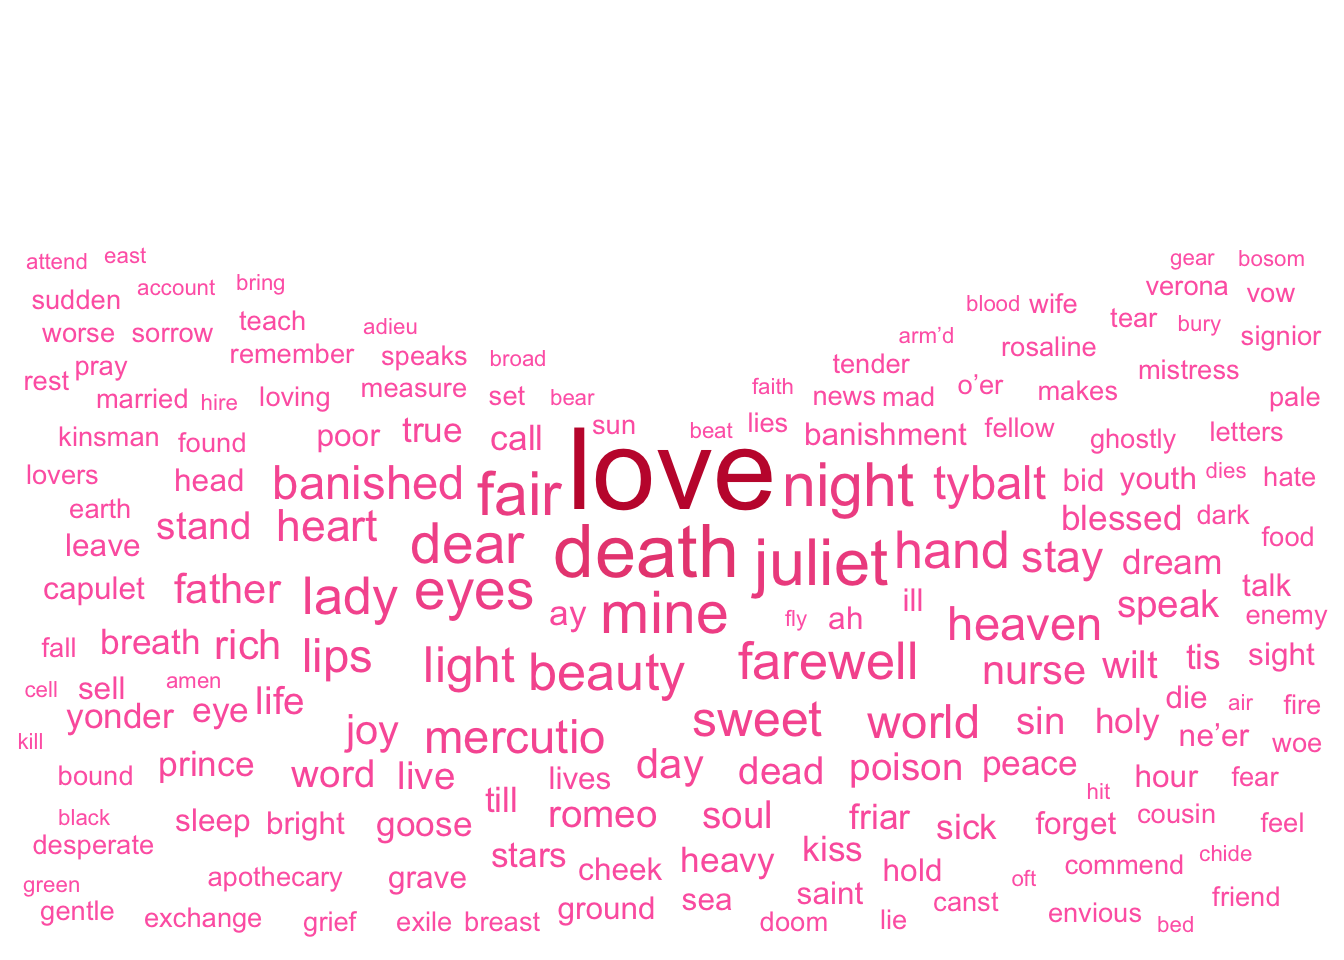
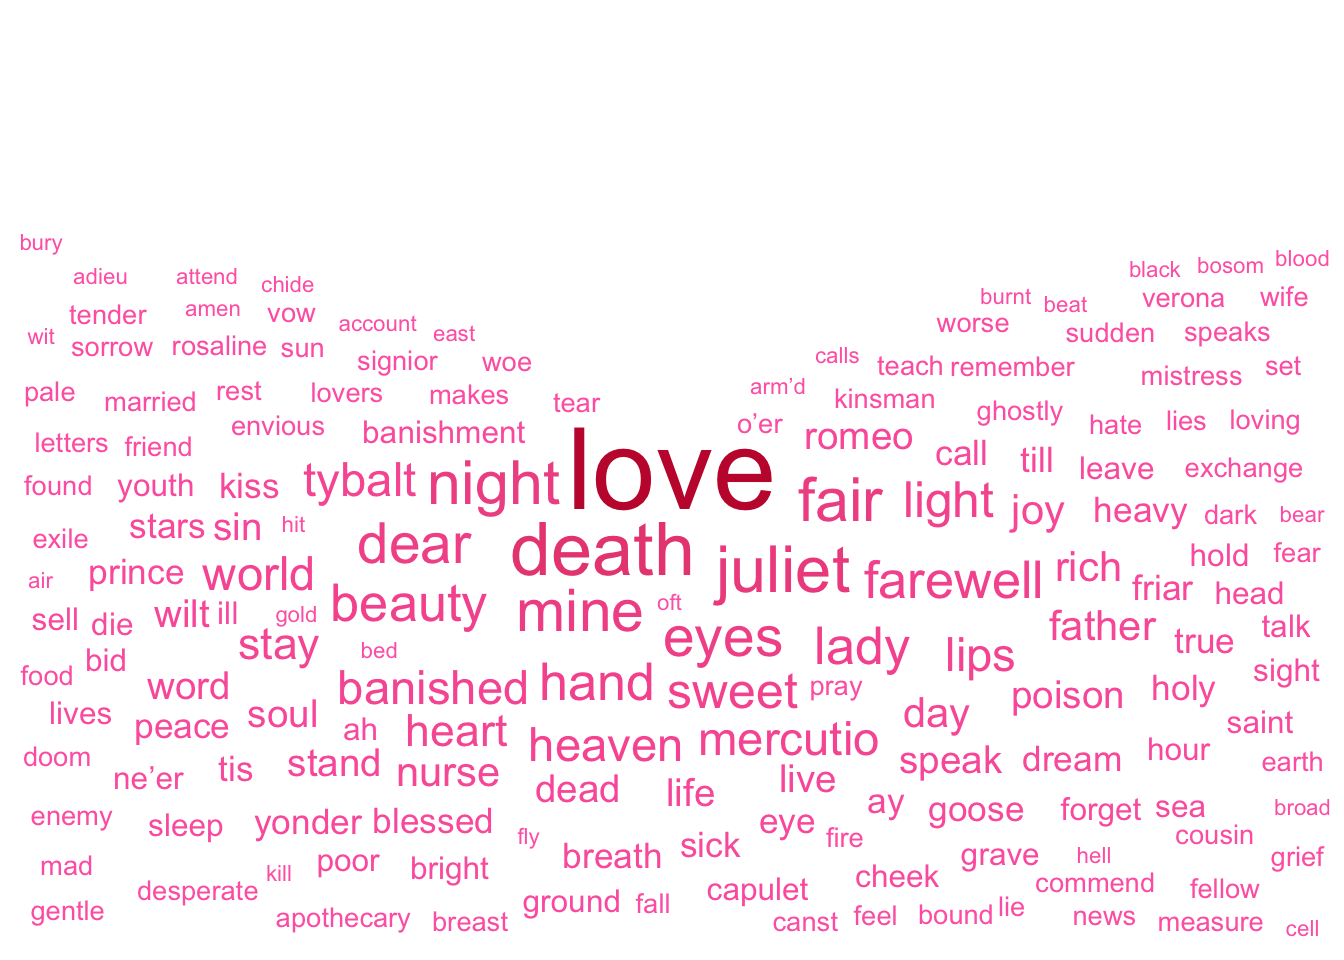
edited shakespeare page

Changed region(s): [[0.0, 0.25, 1.0, 0.9688]]

diff --git a/docs/shakespeare.html b/docs/shakespeare.html
@@ -143,10 +143,10 @@ pre > code.sourceCode > span > a:first-child::before { text-decoration: underlin
     </ul>
   </li>
   <li class="nav-item dropdown ">
-    <a class="nav-link dropdown-toggle" href="#" id="nav-menu-data-viz" role="button" data-bs-toggle="dropdown" aria-expanded="false">
- <span class="menu-text">Data Viz</span>
+    <a class="nav-link dropdown-toggle" href="#" id="nav-menu-data-visualization" role="button" data-bs-toggle="dropdown" aria-expanded="false">
+ <span class="menu-text">Data Visualization</span>
     </a>
-    <ul class="dropdown-menu" aria-labelledby="nav-menu-data-viz">    
+    <ul class="dropdown-menu" aria-labelledby="nav-menu-data-visualization">    
         <li>
     <a class="dropdown-item" href="./olympics.html">
  <span class="dropdown-text">Olympics</span></a>
@@ -161,18 +161,25 @@ pre > code.sourceCode > span > a:first-child::before { text-decoration: underlin
   </li>  
     </ul>
   </li>
-  <li class="nav-item">
-    <a class="nav-link" href="./miniproject2.html"> 
-<span class="menu-text">Mini-Project 2</span></a>
+  <li class="nav-item dropdown ">
+    <a class="nav-link dropdown-toggle" href="#" id="nav-menu-data-science-projects" role="button" data-bs-toggle="dropdown" aria-expanded="false">
+ <span class="menu-text">Data Science Projects</span>
+    </a>
+    <ul class="dropdown-menu" aria-labelledby="nav-menu-data-science-projects">    
+        <li>
+    <a class="dropdown-item" href="./project4.html">
+ <span class="dropdown-text">SQL</span></a>
   </li>  
-  <li class="nav-item">
-    <a class="nav-link" href="./miniproject3.html"> 
-<span class="menu-text">Mini-Project 3</span></a>
+        <li>
+    <a class="dropdown-item" href="./miniproject3.html">
+ <span class="dropdown-text">Permutation</span></a>
   </li>  
-  <li class="nav-item">
-    <a class="nav-link" href="./project4.html"> 
-<span class="menu-text">Project 4</span></a>
+        <li>
+    <a class="dropdown-item" href="./miniproject2.html">
+ <span class="dropdown-text">Text Analysis</span></a>
   </li>  
+    </ul>
+  </li>
 </ul>
           </div> <!-- /navcollapse -->
           <div class="quarto-navbar-tools">
@@ -233,7 +240,7 @@ pre > code.sourceCode > span > a:first-child::before { text-decoration: underlin
 </header>
 
 
-<p>Data was accessed from <a href="https://github.com/rfordatascience/tidytuesday/tree/master/data/2024/2024-09-17" class="uri">https://github.com/rfordatascience/tidytuesday/tree/master/data/2024/2024-09-17</a> . The dataset is from <a href="#0">shakespeare.mit.edu</a> (via <a href="#0">github.com/nrennie/shakespeare</a>). Some of the code below is taken from Deepali Kank on GitHub, <a href="https://github.com/deepdk/TidyTuesday2024/tree/main/2024/week_38" class="uri">https://github.com/deepdk/TidyTuesday2024/tree/main/2024/week_38</a> .</p>
+<p>Data was accessed from the TidyTuesday GitHub repositroy at <a href="https://github.com/rfordatascience/tidytuesday/tree/master/data/2024/2024-09-17" class="uri">https://github.com/rfordatascience/tidytuesday/tree/master/data/2024/2024-09-17</a> . The dataset is from <a href="#0">shakespeare.mit.edu</a> (via <a href="#0">github.com/nrennie/shakespeare</a>), which contains all of William Shakespeare’s plays and poems. Some of the code below is taken from Deepali Kank on GitHub, <a href="https://github.com/deepdk/TidyTuesday2024/tree/main/2024/week_38" class="uri">https://github.com/deepdk/TidyTuesday2024/tree/main/2024/week_38</a> .</p>
 <div class="cell">
 <div class="sourceCode cell-code" id="cb1"><pre class="sourceCode r code-with-copy"><code class="sourceCode r"><span id="cb1-1"><a href="#cb1-1" aria-hidden="true" tabindex="-1"></a><span class="fu">library</span>(tidyverse)</span>
 <span id="cb1-2"><a href="#cb1-2" aria-hidden="true" tabindex="-1"></a>hamlet <span class="ot">&lt;-</span> readr<span class="sc">::</span><span class="fu">read_csv</span>(<span class="st">'https://raw.githubusercontent.com/rfordatascience/tidytuesday/master/data/2024/2024-09-17/hamlet.csv'</span>)</span>
@@ -242,16 +249,17 @@ pre > code.sourceCode > span > a:first-child::before { text-decoration: underlin
 </div>
 <div class="cell">
 <div class="sourceCode cell-code" id="cb2"><pre class="sourceCode r code-with-copy"><code class="sourceCode r"><span id="cb2-1"><a href="#cb2-1" aria-hidden="true" tabindex="-1"></a><span class="fu">library</span>(scales)</span>
-<span id="cb2-2"><a href="#cb2-2" aria-hidden="true" tabindex="-1"></a><span class="fu">library</span>(tidytext)</span>
-<span id="cb2-3"><a href="#cb2-3" aria-hidden="true" tabindex="-1"></a><span class="fu">library</span>(devtools)</span>
-<span id="cb2-4"><a href="#cb2-4" aria-hidden="true" tabindex="-1"></a><span class="fu">library</span>(ggwordcloud)</span>
-<span id="cb2-5"><a href="#cb2-5" aria-hidden="true" tabindex="-1"></a><span class="fu">library</span>(png)</span>
-<span id="cb2-6"><a href="#cb2-6" aria-hidden="true" tabindex="-1"></a><span class="fu">library</span>(svglite)</span></code><button title="Copy to Clipboard" class="code-copy-button"><i class="bi"></i></button></pre></div>
+<span id="cb2-2"><a href="#cb2-2" aria-hidden="true" tabindex="-1"></a><span class="fu">library</span>(tidyverse)</span>
+<span id="cb2-3"><a href="#cb2-3" aria-hidden="true" tabindex="-1"></a><span class="fu">library</span>(tidytext)</span>
+<span id="cb2-4"><a href="#cb2-4" aria-hidden="true" tabindex="-1"></a><span class="fu">library</span>(devtools)</span>
+<span id="cb2-5"><a href="#cb2-5" aria-hidden="true" tabindex="-1"></a><span class="fu">library</span>(ggwordcloud)</span>
+<span id="cb2-6"><a href="#cb2-6" aria-hidden="true" tabindex="-1"></a><span class="fu">library</span>(png)</span>
+<span id="cb2-7"><a href="#cb2-7" aria-hidden="true" tabindex="-1"></a><span class="fu">library</span>(svglite)</span></code><button title="Copy to Clipboard" class="code-copy-button"><i class="bi"></i></button></pre></div>
 </div>
 <section id="romeo-juliet" class="level2">
 <h2 class="anchored" data-anchor-id="romeo-juliet">Romeo &amp; Juliet</h2>
 <div class="cell">
-<div class="sourceCode cell-code" id="cb3"><pre class="sourceCode r code-with-copy"><code class="sourceCode r"><span id="cb3-1"><a href="#cb3-1" aria-hidden="true" tabindex="-1"></a>romeo_juliet<span class="ot">&lt;-</span>romeo_juliet<span class="sc">%&gt;%</span></span>
+<div class="sourceCode cell-code" id="cb3"><pre class="sourceCode r code-with-copy"><code class="sourceCode r"><span id="cb3-1"><a href="#cb3-1" aria-hidden="true" tabindex="-1"></a>romeo_juliet<span class="ot">&lt;-</span>romeo_juliet <span class="sc">|&gt;</span></span>
 <span id="cb3-2"><a href="#cb3-2" aria-hidden="true" tabindex="-1"></a>  <span class="fu">filter</span>(character <span class="sc">%in%</span> <span class="fu">c</span>(<span class="st">"Romeo"</span>, <span class="st">"Juliet"</span>))</span></code><button title="Copy to Clipboard" class="code-copy-button"><i class="bi"></i></button></pre></div>
 </div>
 <p>We need to remove stop words:</p>
@@ -259,25 +267,25 @@ pre > code.sourceCode > span > a:first-child::before { text-decoration: underlin
 <div class="sourceCode cell-code" id="cb4"><pre class="sourceCode r code-with-copy"><code class="sourceCode r"><span id="cb4-1"><a href="#cb4-1" aria-hidden="true" tabindex="-1"></a>custom_stop_words <span class="ot">&lt;-</span> <span class="fu">c</span>(<span class="st">"thou"</span>, <span class="st">"thy"</span>, <span class="st">"thee"</span>, <span class="st">"thine"</span>, <span class="st">"art"</span>, <span class="st">"hast"</span>, <span class="st">"doth"</span>, <span class="st">"dost"</span>, <span class="st">"ere"</span>, <span class="st">"o"</span>,<span class="st">"hath"</span>)</span></code><button title="Copy to Clipboard" class="code-copy-button"><i class="bi"></i></button></pre></div>
 </div>
 <div class="cell">
-<div class="sourceCode cell-code" id="cb5"><pre class="sourceCode r code-with-copy"><code class="sourceCode r"><span id="cb5-1"><a href="#cb5-1" aria-hidden="true" tabindex="-1"></a>temp1 <span class="ot">&lt;-</span> romeo_juliet <span class="sc">%&gt;%</span></span>
-<span id="cb5-2"><a href="#cb5-2" aria-hidden="true" tabindex="-1"></a>  <span class="fu">unnest_tokens</span>(word, dialogue) <span class="sc">%&gt;%</span></span>
-<span id="cb5-3"><a href="#cb5-3" aria-hidden="true" tabindex="-1"></a>  <span class="fu">anti_join</span>(stop_words)<span class="sc">%&gt;%</span></span>
+<div class="sourceCode cell-code" id="cb5"><pre class="sourceCode r code-with-copy"><code class="sourceCode r"><span id="cb5-1"><a href="#cb5-1" aria-hidden="true" tabindex="-1"></a>temp1 <span class="ot">&lt;-</span> romeo_juliet <span class="sc">|&gt;</span></span>
+<span id="cb5-2"><a href="#cb5-2" aria-hidden="true" tabindex="-1"></a>  <span class="fu">unnest_tokens</span>(word, dialogue) <span class="sc">|&gt;</span></span>
+<span id="cb5-3"><a href="#cb5-3" aria-hidden="true" tabindex="-1"></a>  <span class="fu">anti_join</span>(stop_words) <span class="sc">|&gt;</span></span>
 <span id="cb5-4"><a href="#cb5-4" aria-hidden="true" tabindex="-1"></a>  <span class="fu">filter</span>(<span class="sc">!</span><span class="fu">str_detect</span>(word, <span class="st">"^[0-9]+$"</span>))</span></code><button title="Copy to Clipboard" class="code-copy-button"><i class="bi"></i></button></pre></div>
 <div class="cell-output cell-output-stderr">
 <pre><code>Joining with `by = join_by(word)`</code></pre>
 </div>
-<div class="sourceCode cell-code" id="cb7"><pre class="sourceCode r code-with-copy"><code class="sourceCode r"><span id="cb7-1"><a href="#cb7-1" aria-hidden="true" tabindex="-1"></a>temp2 <span class="ot">&lt;-</span> romeo_juliet <span class="sc">%&gt;%</span></span>
-<span id="cb7-2"><a href="#cb7-2" aria-hidden="true" tabindex="-1"></a>  <span class="fu">unnest_tokens</span>(word, dialogue)<span class="sc">%&gt;%</span></span>
-<span id="cb7-3"><a href="#cb7-3" aria-hidden="true" tabindex="-1"></a>  <span class="fu">filter</span>(<span class="sc">!</span>word <span class="sc">%in%</span> stop_words<span class="sc">$</span>word)<span class="sc">%&gt;%</span></span>
+<div class="sourceCode cell-code" id="cb7"><pre class="sourceCode r code-with-copy"><code class="sourceCode r"><span id="cb7-1"><a href="#cb7-1" aria-hidden="true" tabindex="-1"></a>temp2 <span class="ot">&lt;-</span> romeo_juliet <span class="sc">|&gt;</span></span>
+<span id="cb7-2"><a href="#cb7-2" aria-hidden="true" tabindex="-1"></a>  <span class="fu">unnest_tokens</span>(word, dialogue) <span class="sc">|&gt;</span></span>
+<span id="cb7-3"><a href="#cb7-3" aria-hidden="true" tabindex="-1"></a>  <span class="fu">filter</span>(<span class="sc">!</span>word <span class="sc">%in%</span> stop_words<span class="sc">$</span>word) <span class="sc">|&gt;</span></span>
 <span id="cb7-4"><a href="#cb7-4" aria-hidden="true" tabindex="-1"></a>  <span class="fu">filter</span>(<span class="sc">!</span><span class="fu">str_detect</span>(word, <span class="st">"^[0-9]+$"</span>))</span></code><button title="Copy to Clipboard" class="code-copy-button"><i class="bi"></i></button></pre></div>
 </div>
 <div class="cell">
-<div class="sourceCode cell-code" id="cb8"><pre class="sourceCode r code-with-copy"><code class="sourceCode r"><span id="cb8-1"><a href="#cb8-1" aria-hidden="true" tabindex="-1"></a>word_counts <span class="ot">&lt;-</span> romeo_juliet <span class="sc">%&gt;%</span></span>
-<span id="cb8-2"><a href="#cb8-2" aria-hidden="true" tabindex="-1"></a>  <span class="fu">unnest_tokens</span>(word, dialogue) <span class="sc">%&gt;%</span></span>
+<div class="sourceCode cell-code" id="cb8"><pre class="sourceCode r code-with-copy"><code class="sourceCode r"><span id="cb8-1"><a href="#cb8-1" aria-hidden="true" tabindex="-1"></a>word_counts <span class="ot">&lt;-</span> romeo_juliet <span class="sc">|&gt;</span></span>
+<span id="cb8-2"><a href="#cb8-2" aria-hidden="true" tabindex="-1"></a>  <span class="fu">unnest_tokens</span>(word, dialogue) <span class="sc">|&gt;</span></span>
 <span id="cb8-3"><a href="#cb8-3" aria-hidden="true" tabindex="-1"></a>  <span class="fu">anti_join</span>(stop_words) <span class="sc">%&gt;%</span></span>
-<span id="cb8-4"><a href="#cb8-4" aria-hidden="true" tabindex="-1"></a>  <span class="fu">filter</span>(<span class="sc">!</span><span class="fu">str_detect</span>(word, <span class="st">"^[0-9]+$"</span>)) <span class="sc">%&gt;%</span> <span class="co">#remove any word, and a full number. ^ is beginning of string, + means one or more, and $ is end of string</span></span>
-<span id="cb8-5"><a href="#cb8-5" aria-hidden="true" tabindex="-1"></a>  <span class="fu">filter</span>(<span class="sc">!</span>word <span class="sc">%in%</span> custom_stop_words) <span class="sc">%&gt;%</span></span>
-<span id="cb8-6"><a href="#cb8-6" aria-hidden="true" tabindex="-1"></a>  <span class="fu">mutate</span>(<span class="at">word=</span>stringr<span class="sc">::</span><span class="fu">str_replace</span>(word, <span class="st">"'s"</span>, <span class="st">""</span>))<span class="sc">%&gt;%</span></span>
+<span id="cb8-4"><a href="#cb8-4" aria-hidden="true" tabindex="-1"></a>  <span class="fu">filter</span>(<span class="sc">!</span><span class="fu">str_detect</span>(word, <span class="st">"^[0-9]+$"</span>)) <span class="sc">|&gt;</span> <span class="co">#remove any word, and a full number. ^ is beginning of string, + means one or more, and $ is end of string</span></span>
+<span id="cb8-5"><a href="#cb8-5" aria-hidden="true" tabindex="-1"></a>  <span class="fu">filter</span>(<span class="sc">!</span>word <span class="sc">%in%</span> custom_stop_words) <span class="sc">|&gt;</span></span>
+<span id="cb8-6"><a href="#cb8-6" aria-hidden="true" tabindex="-1"></a>  <span class="fu">mutate</span>(<span class="at">word=</span>stringr<span class="sc">::</span><span class="fu">str_replace</span>(word, <span class="st">"'s"</span>, <span class="st">""</span>)) <span class="sc">|&gt;</span></span>
 <span id="cb8-7"><a href="#cb8-7" aria-hidden="true" tabindex="-1"></a>  <span class="fu">count</span>(character, word, <span class="at">sort =</span> <span class="cn">TRUE</span>)</span></code><button title="Copy to Clipboard" class="code-copy-button"><i class="bi"></i></button></pre></div>
 <div class="cell-output cell-output-stderr">
 <pre><code>Joining with `by = join_by(word)`</code></pre>
@@ -293,10 +301,10 @@ pre > code.sourceCode > span > a:first-child::before { text-decoration: underlin
 </div>
 <p>Making a word cloud for each character:</p>
 <div class="cell">
-<div class="sourceCode cell-code" id="cb12"><pre class="sourceCode r code-with-copy"><code class="sourceCode r"><span id="cb12-1"><a href="#cb12-1" aria-hidden="true" tabindex="-1"></a>romeo <span class="sc">%&gt;%</span></span>
-<span id="cb12-2"><a href="#cb12-2" aria-hidden="true" tabindex="-1"></a>  <span class="fu">filter</span>(n<span class="sc">&gt;</span><span class="dv">1</span>)<span class="sc">%&gt;%</span></span>
-<span id="cb12-3"><a href="#cb12-3" aria-hidden="true" tabindex="-1"></a>  <span class="fu">ggplot</span>(<span class="fu">aes</span>(<span class="at">label=</span>word, <span class="at">size=</span>n, <span class="at">color=</span>n))<span class="sc">+</span></span>
-<span id="cb12-4"><a href="#cb12-4" aria-hidden="true" tabindex="-1"></a>  <span class="fu">geom_text_wordcloud</span>(<span class="at">rm_outside =</span> <span class="cn">TRUE</span>, <span class="at">shape=</span><span class="st">"cardioid"</span>)<span class="sc">+</span></span>
+<div class="sourceCode cell-code" id="cb12"><pre class="sourceCode r code-with-copy"><code class="sourceCode r"><span id="cb12-1"><a href="#cb12-1" aria-hidden="true" tabindex="-1"></a>romeo <span class="sc">|&gt;</span></span>
+<span id="cb12-2"><a href="#cb12-2" aria-hidden="true" tabindex="-1"></a>  <span class="fu">filter</span>(n<span class="sc">&gt;</span><span class="dv">1</span>) <span class="sc">|&gt;</span></span>
+<span id="cb12-3"><a href="#cb12-3" aria-hidden="true" tabindex="-1"></a>  <span class="fu">ggplot</span>(<span class="fu">aes</span>(<span class="at">label=</span>word, <span class="at">size=</span>n, <span class="at">color=</span>n)) <span class="sc">+</span></span>
+<span id="cb12-4"><a href="#cb12-4" aria-hidden="true" tabindex="-1"></a>  <span class="fu">geom_text_wordcloud</span>(<span class="at">rm_outside =</span> <span class="cn">TRUE</span>, <span class="at">shape=</span><span class="st">"cardioid"</span>) <span class="sc">+</span></span>
 <span id="cb12-5"><a href="#cb12-5" aria-hidden="true" tabindex="-1"></a>  <span class="fu">scale_size_area</span>(<span class="at">max_size =</span> <span class="dv">15</span>) <span class="sc">+</span></span>
 <span id="cb12-6"><a href="#cb12-6" aria-hidden="true" tabindex="-1"></a>  <span class="fu">theme_minimal</span>() <span class="sc">+</span></span>
 <span id="cb12-7"><a href="#cb12-7" aria-hidden="true" tabindex="-1"></a>  <span class="fu">scale_color_gradient</span>(<span class="at">low =</span> <span class="st">"#FF69B4"</span>, <span class="at">high =</span> <span class="st">"#C41E3A"</span>)</span></code><button title="Copy to Clipboard" class="code-copy-button"><i class="bi"></i></button></pre></div>
@@ -356,10 +364,6 @@ Some words could not fit on page. They have been removed.</code></pre>
 <span id="cb16-13"><a href="#cb16-13" aria-hidden="true" tabindex="-1"></a>  <span class="fu">scale_color_gradient</span>(<span class="at">low =</span> <span class="st">"#FF69B4"</span>, <span class="at">high =</span> <span class="st">"#C41E3A"</span>)</span>
 <span id="cb16-14"><a href="#cb16-14" aria-hidden="true" tabindex="-1"></a></span>
 <span id="cb16-15"><a href="#cb16-15" aria-hidden="true" tabindex="-1"></a><span class="fu">print</span>(p1_ju)</span></code><button title="Copy to Clipboard" class="code-copy-button"><i class="bi"></i></button></pre></div>
-<div class="cell-output cell-output-stderr">
-<pre><code>Warning in wordcloud_boxes(data_points = points_valid_first, boxes = boxes, :
-Some words could not fit on page. They have been removed.</code></pre>
-</div>
 <div class="cell-output-display">
 <div>
 <figure class="figure">
